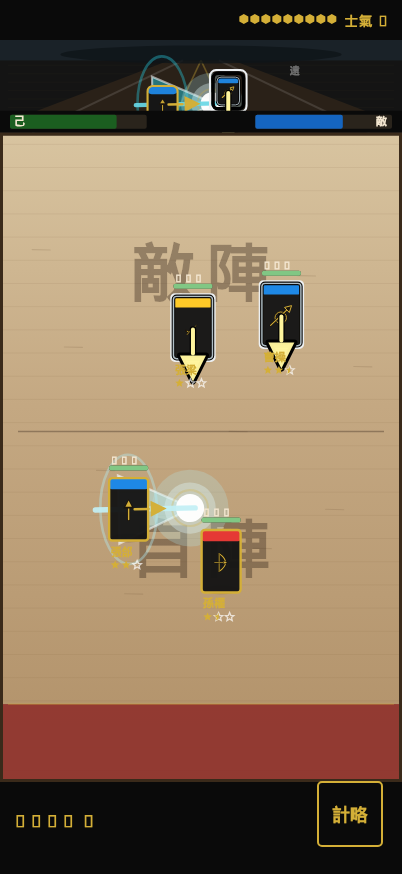
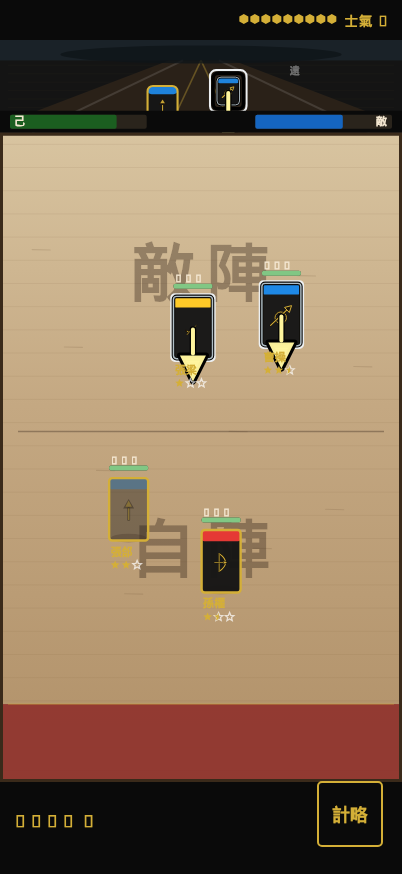
Replace B1 with an idle seal frame
Park the spear plate and clear selection so the ready still has no beam,
range ring, or cast flare. B2, B3, B5, and B6 stay as they were.

Changed region(s): [[0.2388, 0.5252, 0.5672, 0.6487], [0.3284, 0.0618, 0.5373, 0.1545]]

diff --git a/test/lookalike_lk_gate_test.dart b/test/lookalike_lk_gate_test.dart
@@ -208,14 +208,23 @@ void main() {
       await _shootPair(hit, mash, 't1-t2-scrape-vs-mash.png');
 
       await _armReadability(hit);
-      final beat = _beatGame();
-      final readyPool = beat.matchMorale;
-      beat.selectedIndex = null;
-      beat.cancelStrategyPreview();
-      expect(beat.strategyPreviewVisible, isFalse);
-      expect(beat.selectedIndex, isNull);
-      await _shootBeat(beat, 'b1-seal-ready.png');
+      final ready = _beatGame();
+      final readyPool = ready.matchMorale;
+      ready.selectedIndex = null;
+      ready.cancelStrategyPreview();
+      ready.tutorialOwnIndex = null;
+      ready.tutorialEnemyIndex = null;
+      // Spear plate is tip-always-on. Park it so this frame is not a cast.
+      ready.fieldInCastle[0] = true;
+      expect(ready.spearTipExtendedAt(0), isFalse);
+      expect(ready.strategyPreviewVisible, isFalse);
+      expect(ready.debugStrategyFxLeft, 0);
+      expect(ready.debugStrategyBeamFrom, isNull);
+      expect(ready.debugHitLabel, isEmpty);
+      await _shootBeat(ready, 'b1-seal-ready.png');
 
+      final beat = _beatGame();
+      expect(beat.matchMorale, readyPool);
       final card = beat.tokenCenter(1);
       beat.selectedIndex = 1;
       beat.cancelStrategyPreview();
